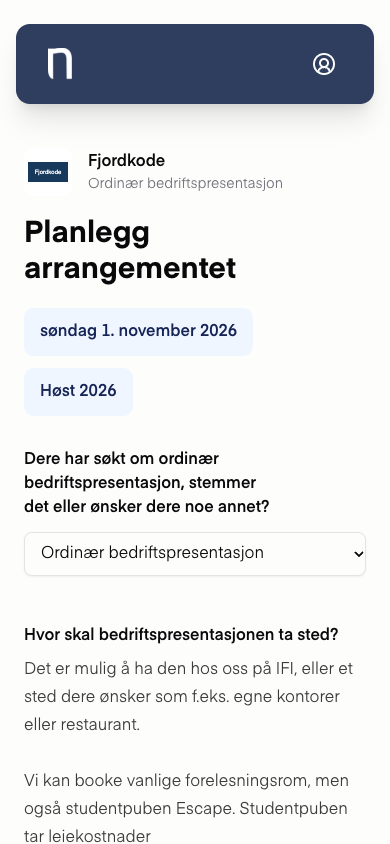
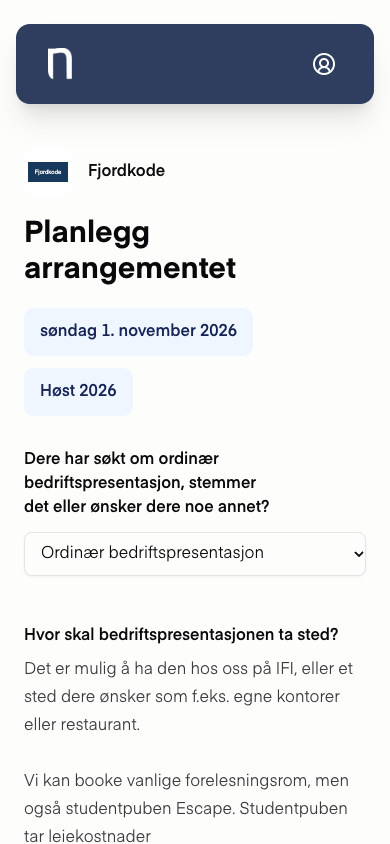
style: remove repeated event type from company header

Changed region(s): [[0.2154, 0.1848, 0.4308, 0.2464], [0.4923, 0.2156, 0.7077, 0.2464]]

diff --git a/apps/hugin/src/components/event-planning/company-planning.tsx b/apps/hugin/src/components/event-planning/company-planning.tsx
@@ -35,10 +35,7 @@ function Planning({ token }: Readonly<{ token: string }>) {
 			<header className="mb-8 space-y-5">
 				<div className="flex items-center gap-4">
 					<CompanyLogo name={data.companyName} url={data.logoUrl} size="lg" />
-					<div>
-						<p className="font-semibold">{data.companyName}</p>
-						<p className="text-muted-foreground text-sm">{data.packageName}</p>
-					</div>
+					<p className="font-semibold">{data.companyName}</p>
 				</div>
 				{!sent && <h1 className="font-bold text-3xl">Planlegg arrangementet</h1>}
 				<div className="flex flex-wrap gap-3">
